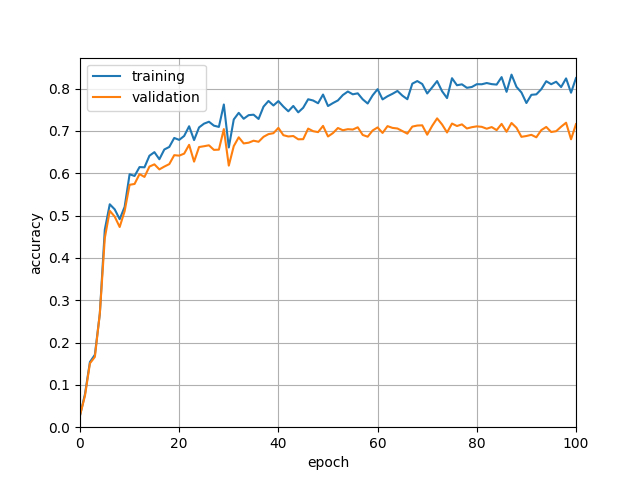
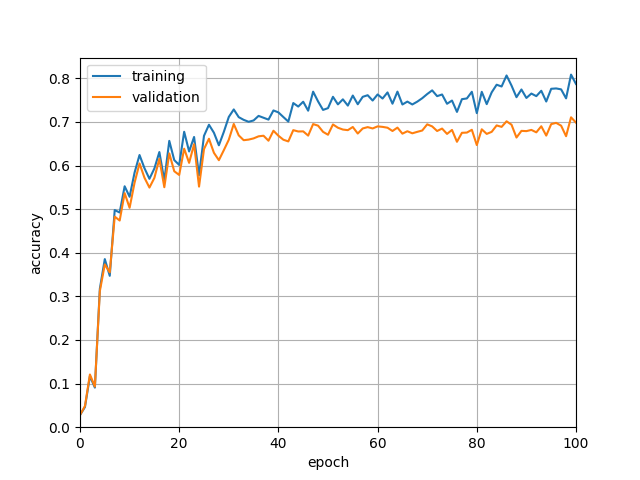
+

diff --git a/lifany_hw4/python/nn.py b/lifany_hw4/python/nn.py
@@ -141,7 +141,7 @@ def backwards(delta, params, name="", activation_deriv=sigmoid_deriv):
     loss_dJdy = delta * activation_deriv(post_act)
     grad_W = np.matmul(X.T, loss_dJdy)
     # -- take the per-class average of bias
-    grad_b = np.sum(loss_dJdy, axis=0)/loss_dJdy.shape[0]
+    grad_b = np.sum(loss_dJdy, axis=0)
     # grad_b = np.sum(loss_dJdy, axis=0)
     grad_X = np.matmul(loss_dJdy, W.T)
 

diff --git a/lifany_hw4/python/run_q2.py b/lifany_hw4/python/run_q2.py
@@ -206,8 +206,7 @@ for k, v in params.items():
 
             params[k][i] = params[k][i] + eps
 
-            central_diff = ((loss1 - loss2) / (2*eps)) / x.shape[0]
-            # central_diff = (loss1 - loss2) / (2*eps)
+            central_diff = ((loss1 - loss2) / (2*eps))
             params["grad_" + k][i] = central_diff
 
 
